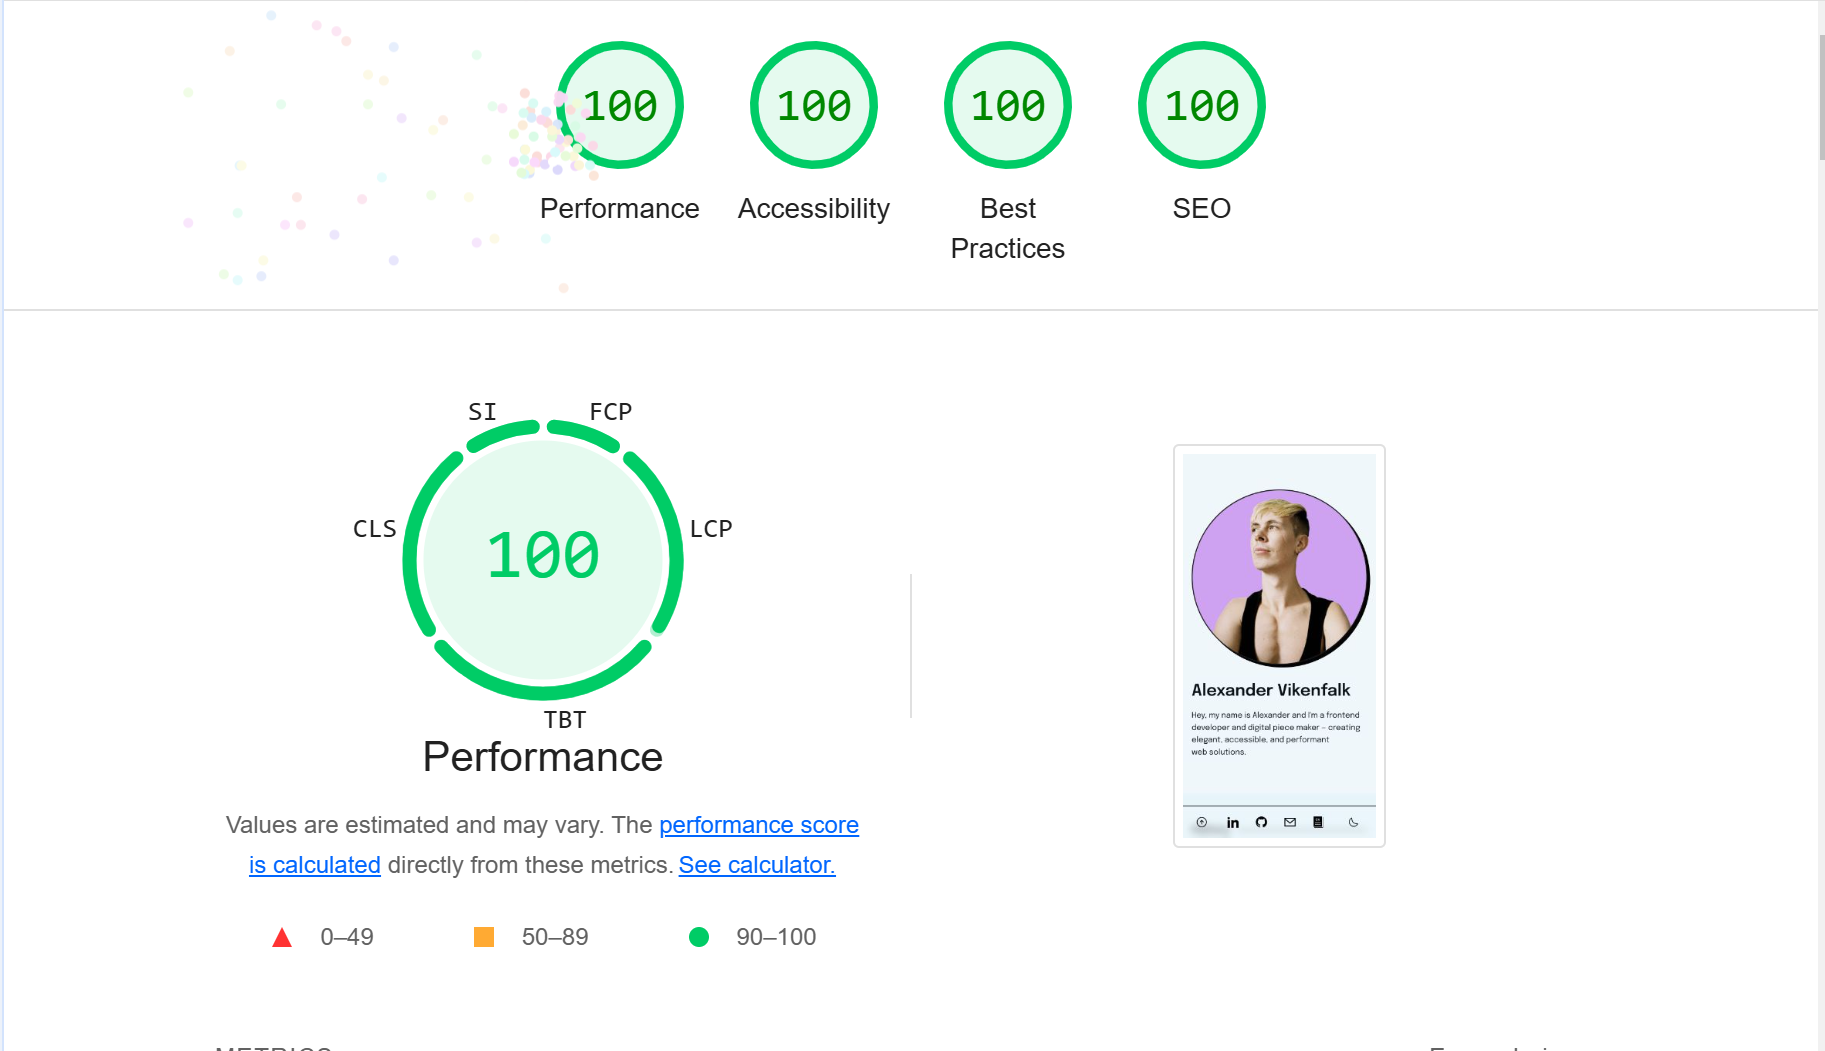
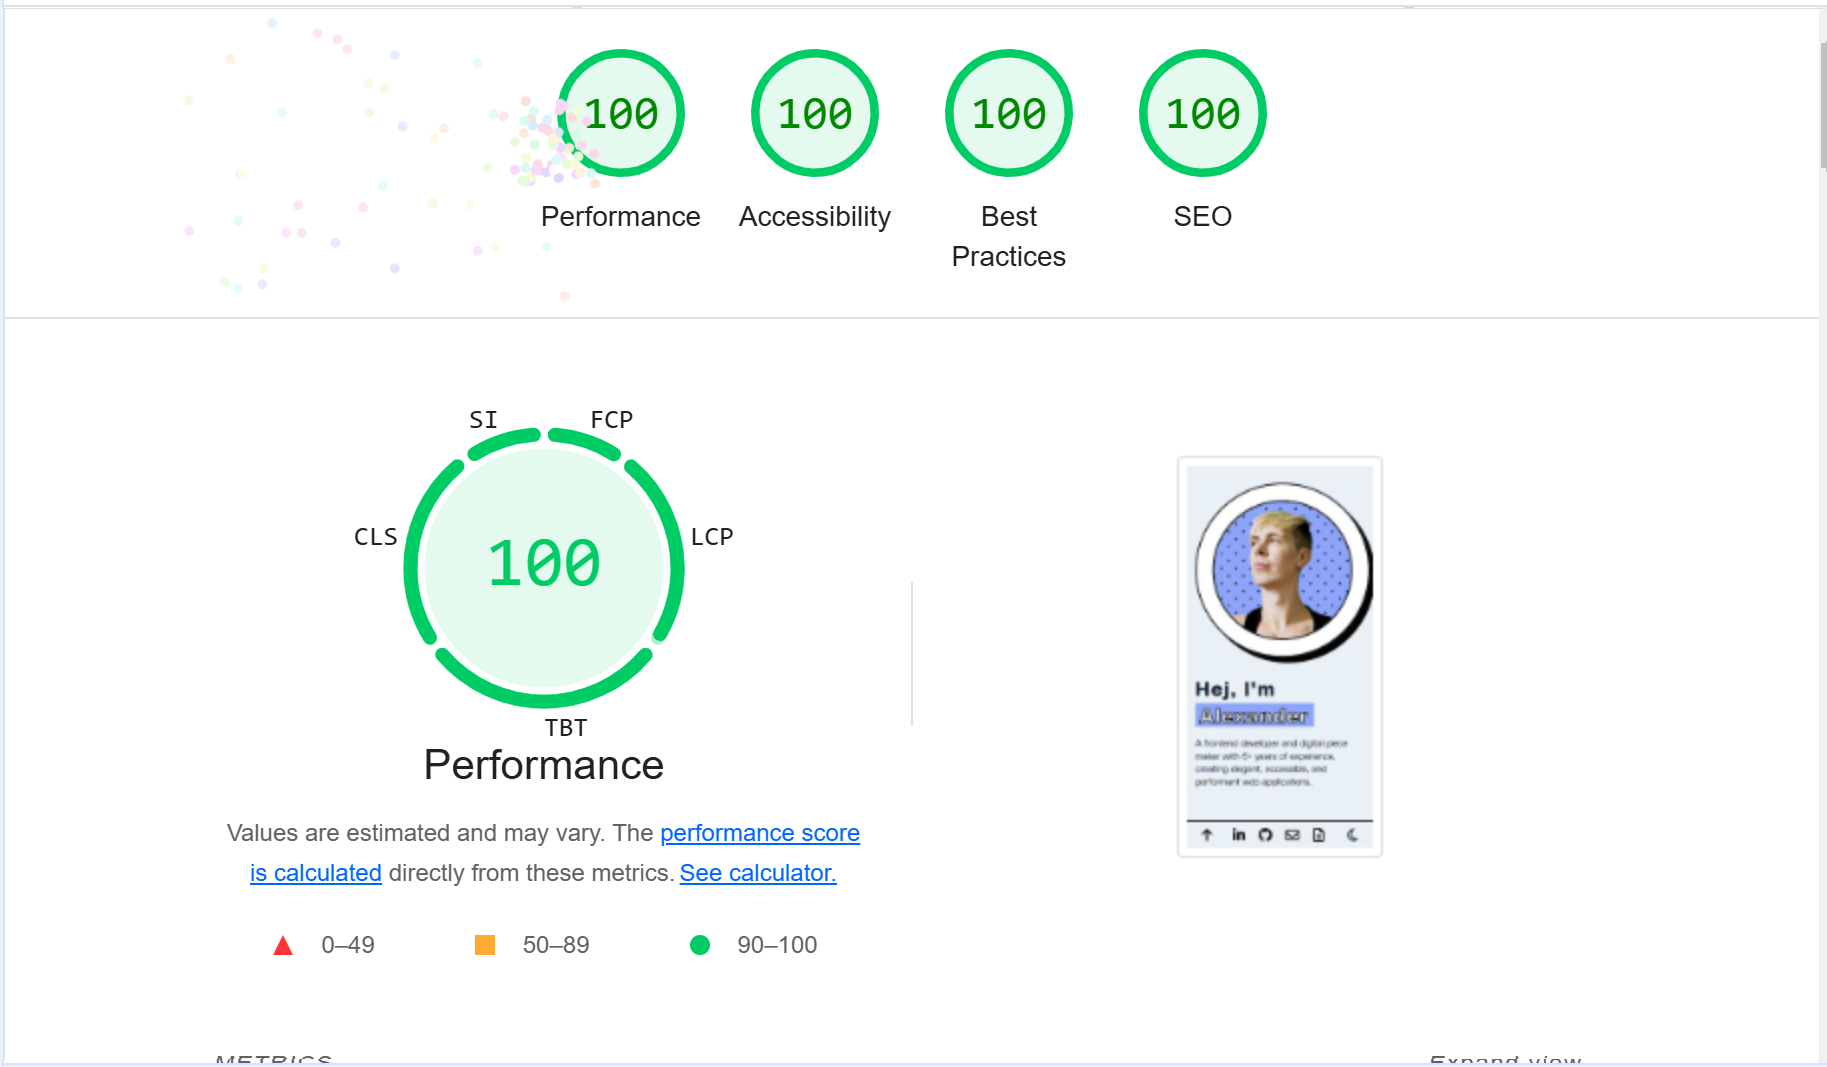
update readme, lighthouse screenshots and preview

diff --git a/index.html b/index.html
@@ -59,7 +59,7 @@
                 </figure>
             </div>
             <div class="flow hero__header">
-                <h1 class="heading-1">Hej, I'm <span class="text-outline-2 bg-peach padding-x-1">Alexander</span></h1>
+                <h1 class="heading-1">Hej, I'm <span class="text-outline-1 bg-peach padding-x-1">Alexander</span></h1>
                 <h2 class="heading-5">A frontend developer and digital piece maker with 6+ years of experience, creating elegant, accessible, and performant web applications.</h2>
             </div>
         </div>

diff --git a/README.md b/README.md
@@ -61,7 +61,6 @@
 
 This portfolio was designed with a focused approach, adhering to several key principles:
 
-* **KISS Principle:** Keep the design simple and straightforward
 * **Quality Over Quantity:** Emphasize meaningful content and design
 * **Technical Challenge:**: Develop the website using only HTML and CSS
 * **Performance Optimization:** Achieve a 100-point Lighthouse score
